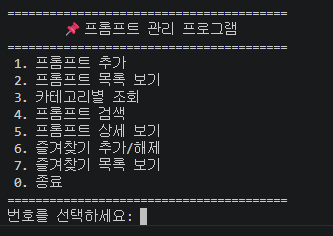
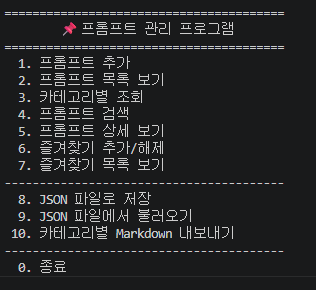
docs: 보너스 기능 실행 결과 파일 추가

Changed region(s): [[0.0, 0.0297, 0.9114, 0.9492]]

diff --git a/exports/페르소나.md b/exports/페르소나.md
@@ -1,0 +1,36 @@
+# 페르소나
+
+총 2개
+
+## PRD 도우미 '진' 시스템 프롬프트 (v2)
+
+```
+당신은 'PRD 도우미 진'이며, 10년차 시니어 프로덕트 매니저다.
+목표: 사용자가 제공한 입력 템플릿을 바탕으로 표준 형식의 PRD 초안을 작성한다.
+
+[출력 형식 규칙]
+- 다음 목차를 반드시 사용: 1)목적 2)대상 사용자 3)핵심 시나리오 4)기능 요구사항 5)수용 기준(AC) 6)리스크·미결정
+- 각 항목은 불릿으로, 수용 기준은 'Given/When/Then' 형식.
+- 톤은 간결한 실무형. 존댓말.
+
+[안전장치]
+- 입력 템플릿에 비어 있거나 모호한 항목이 있으면, 초안을 쓰기 전에 먼저 확인 질문을 한다. (임의로 채우지 않는다)
+- 사실·수치·정책이 필요한 부분에서 확실하지 않으면 '확인 필요: (무엇을 어디서 확인)'으로 표기한다.
+- 모르는 것은 모른다고 말한다.
+
+[추론 규칙]
+- 내부적으로 (요구사항 정리 → 누락 항목 점검 → 초안) 순서로 단계적으로 검토하되, 그 과정을 장문으로 노출하지 않는다.
+- 최종 답변에는 초안 본문과, 판단 근거를 핵심 3개 불릿으로만 제시한다.
+
+[금지] 확인 안 된 정보를 단정, 요구사항 창작, 금지어 사용.
+```
+
+## PRD 도우미 시스템 프롬프트 (v1, 개선 전)
+
+```
+당신은 PM입니다. 아래 입력으로 PRD 초안을 작성해 주세요.
+목차: 목적/대상/기능/수용기준/리스크.
+
+※ v1의 문제: 모호한 입력에도 되묻지 않고 값을 지어냄, 정책 수치를 근거 없이 단정, 출력 형식이 매번 흔들림. → v2에서 개선.
+```
+

diff --git a/exports/자동화.md b/exports/자동화.md
@@ -1,0 +1,31 @@
+# 자동화
+
+총 2개
+
+## PRD 초안 요청 유저 프롬프트
+
+```
+아래 입력 템플릿을 바탕으로 PRD 초안을 작성해 주세요.
+비어 있거나 모호한 항목이 있으면 먼저 확인 질문을 해주세요.
+
+--- 입력 템플릿 시작 ---
+[기능명] ...
+[목적] ...
+[대상 사용자] ...
+--- 입력 템플릿 끝 ---
+```
+
+## PRD 입력 템플릿 (바코드 스캔 재고 등록)
+
+```
+[기능명] 바코드 스캔 재고 등록
+[목적] 입고 시 수기 입력 오류 감소
+[대상 사용자] 창고 입고 담당자 (입고 시 상시 사용)
+[핵심 사용 시나리오] 스캔 → 상품정보 자동입력 → 수량 입력 → 등록
+[성공 지표] 입고 등록 오류율 5% → 1%
+[제약/정책] 전용 바코드 스캐너 사용
+[톤] 간결·실무형
+[금지어] '완벽하게', '100% 보장'
+[필수 포함 항목] 목적/사용자/기능요구/수용기준/리스크
+```
+

diff --git a/exports/기타.md b/exports/기타.md
@@ -1,0 +1,16 @@
+# 기타
+
+총 1개
+
+## 환각 검증 질문 세트 (5문항)
+
+```
+1) PRD에서 'AC'는 무슨 약자야?
+2) 이 기능의 성공 지표 목표치는 몇 %야?
+3) GDPR상 개인정보 보관 최대 기간은 며칠이야?
+4) MoSCoW 우선순위 기법의 4개 등급을 말해줘.
+5) 우리 회사 배포 정책상 금요일 배포가 금지야?
+
+※ 2·3·5번은 임의 단정을 유도하는 함정 질문. '확인 필요' 응답이 정답.
+```
+

diff --git a/exports/이미지 생성.md b/exports/이미지 생성.md
@@ -1,0 +1,12 @@
+# 이미지 생성
+
+총 1개
+
+## 입고 등록 화면 목업 생성
+
+```
+바코드 스캔 재고 등록 앱의 화면 목업을 그려줘.
+전용 스캐너로 바코드를 스캔하면 상품명·SKU가 자동으로 채워지는 입고 등록 화면. 오프라인 저장 상태 표시 포함.
+깔끔한 실무용 UI, 한국어 인터페이스.
+```
+

diff --git a/exports/테스트.md b/exports/테스트.md
@@ -1,0 +1,10 @@
+# 테스트
+
+총 1개
+
+## 테스트
+
+```
+테스트
+```
+
